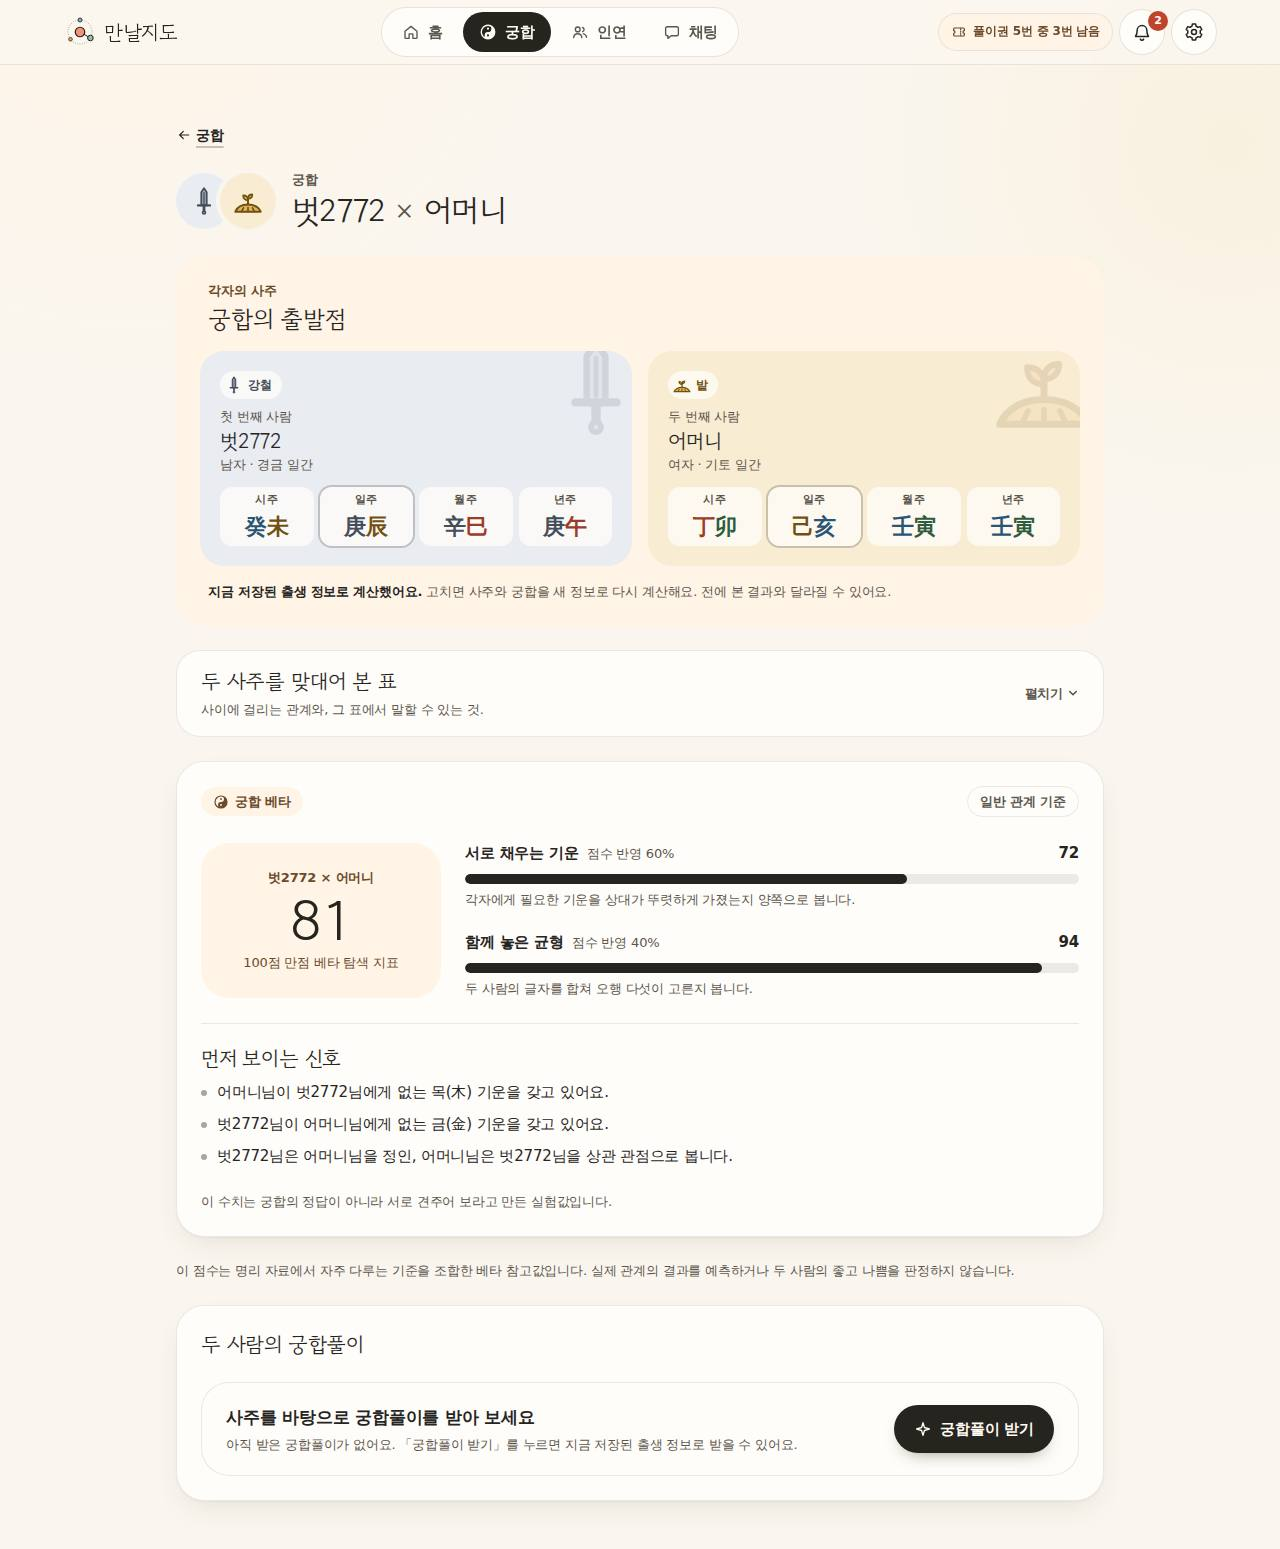
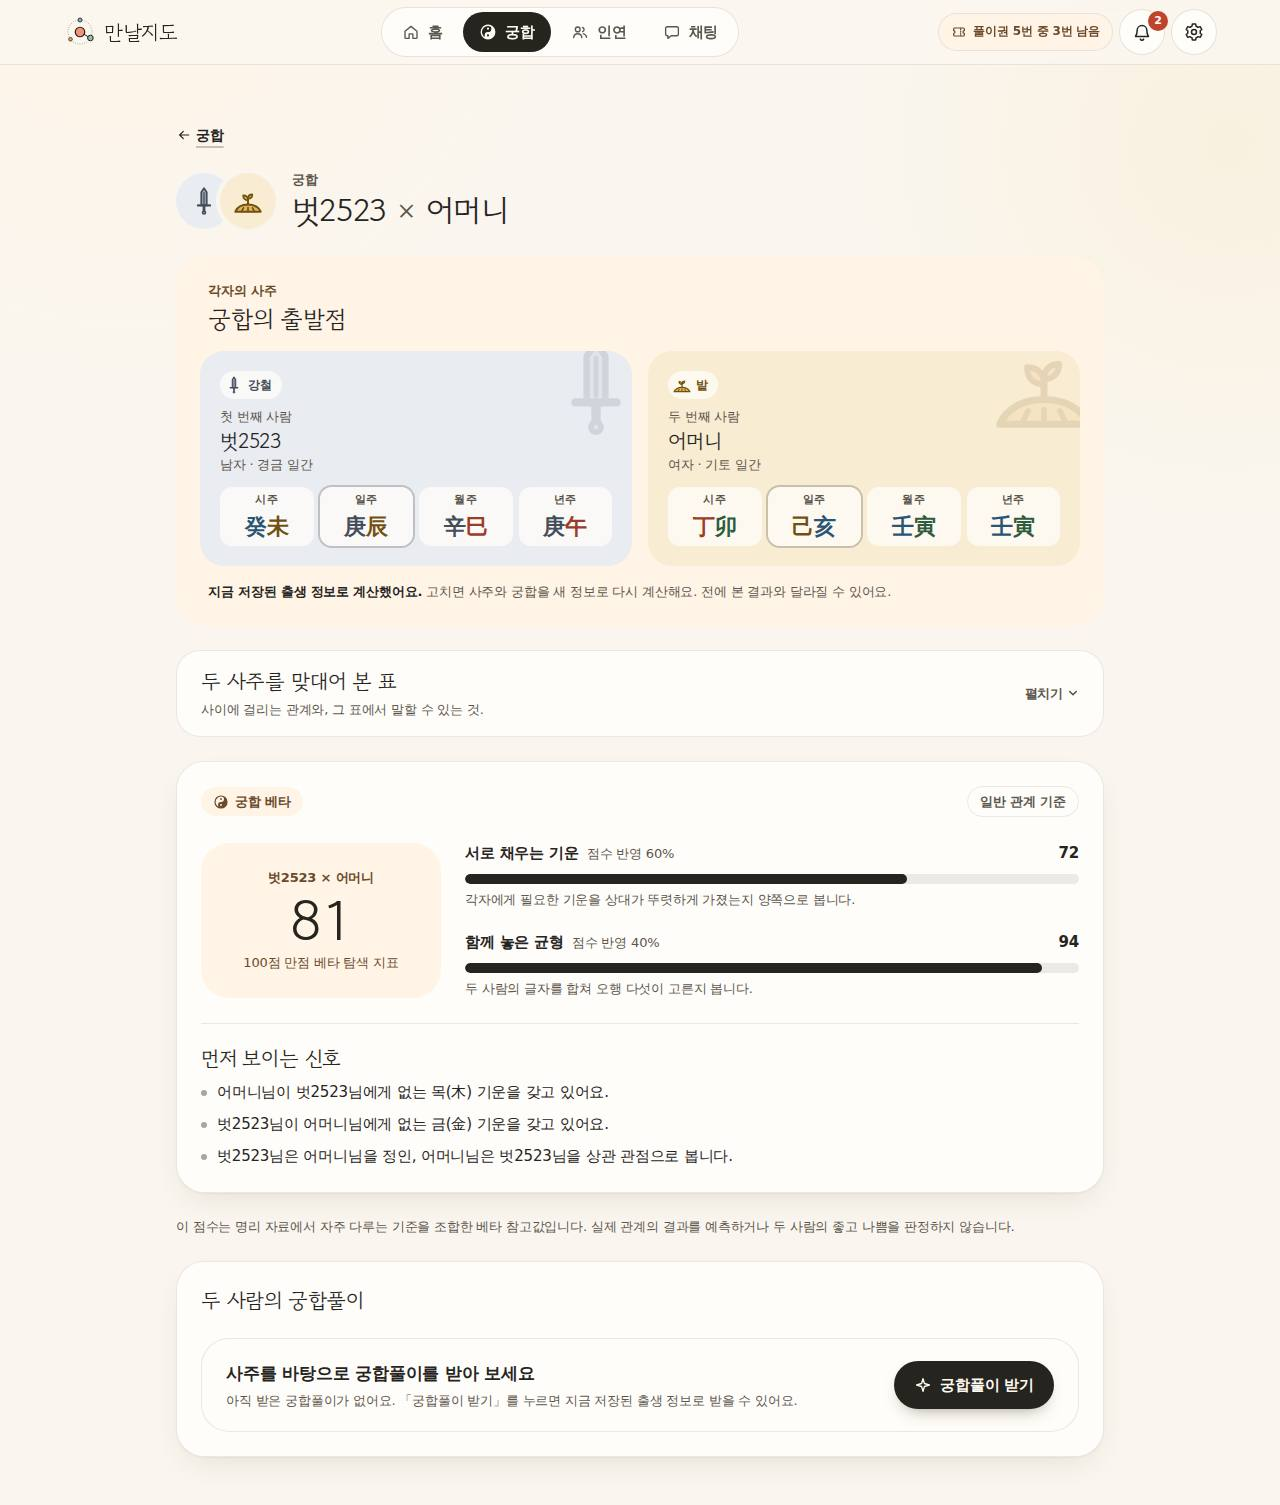
ui(compat): 궁합 점수 카드 안의 각주를 걷어 면책은 카드 밖 한 줄만 남고, 폰 덱 e2e 가 뼈대의 카드 자리를 세지 않는다
- 카드 안 「이 수치는 궁합의 정답이 아니라 …실험값입니다.」를 걷었다(운영자 승인, 대장 29). 그리던 곳이 이 카드뿐이라 `MatchPreview.caveat` 째 걷었다. 카드 밖 `ScoringNote` 는 그대로.
- e2e/match.spec.ts: 뼈대(`main[data-skeleton]`)도 `data-deck-fit` 을 달아, 본문과 바꿔 끼워지기 전 둘이 함께 잡혀 strict 위반이 났다 — 본문의 카드만 잰다.
- 새 주석에서 변경 경위를 걷었다.

diff --git a/src/lib/matching/index.ts b/src/lib/matching/index.ts
@@ -51,7 +51,6 @@ export type MatchPreview = {
   index: number;
   dimensions: MatchDimension[];
   highlights: string[];
-  caveat: string;
 };
 
 /**
@@ -231,17 +230,8 @@ export function buildMatchPreview(
     dimensions,
     highlights: highlights.slice(0, 3),
     /*
-      뒷문장(「억부·종격·격국처럼 검증 중인 판정은 포함하지 않았습니다」)을 뺐다.
-      카드 머리의 딱지가 같은 말을 이미 하고 있다. 각주가 답하는 물음은 다르다 —
-      **이 숫자가 무엇인가**이고, 그건 딱지가 답하지 않는다.
+      **카드 안에 각주를 따로 두지 않는다.** 이 숫자가 무엇인지는 카드 바로 밖의 한 줄(`ScoringNote`)이 말한다 — 카드 안에
+      같은 면책이 하나 더 서면 한 화면이 같은 말을 두 번, 다른 말투로 한다.
     */
-    /*
-      **`match-v0` 은 각주에도 안 적는다.** 용어집이 이미 「내부 버전은 사용자에게
-      보이지 않는다」로 정해 두었는데(docs/context/evidence.md 의 「옛 실험 지표」), 카드 딱지에서
-      빼면서 이 줄은 그대로 두었다. 사용자에게 그 문자열은 답이 아니라 물음이 된다.
-
-      각주가 답하는 것은 **이 숫자가 무엇인가**이고, 그건 판본 이름 없이 말할 수 있다.
-    */
-    caveat: '이 수치는 궁합의 정답이 아니라 서로 견주어 보라고 만든 실험값입니다.',
   };
 }

diff --git a/src/lib/reading/feedback.ts b/src/lib/reading/feedback.ts
@@ -24,10 +24,8 @@ export const FEEDBACK_SCALE = [1, 2, 3, 4, 5] as const;
 export type FeedbackScore = (typeof FEEDBACK_SCALE)[number];
 
 /**
- * 첫 질문이 이해를 돕는 **대상** — kind 가 고른다(2026-10-10 화면 점검 B9, 운영자 승인).
- *
- * 한 문장으로 네 kind 에 물을 때는 어머니 풀이 아래에서도 「나를」 이해하는 데 도움이 됐는지를 물었다. 대상만
- * 갈아 끼우고 열(`usefulness`) · 눈금 · 보낼 수 있는 조건은 그대로다.
+ * 첫 질문이 이해를 돕는 **대상** — kind 가 고른다. 저장한 사람의 풀이 아래에서 「나를」 이해하는 데 도움이 됐는지를
+ * 물으면 답이 무엇을 매겼는지 흐려진다. 대상만 갈아 끼우고 열(`usefulness`) · 눈금 · 보낼 수 있는 조건은 같다.
  *
  * **그래서 같은 열에 쌓이는 답의 뜻이 kind 마다 갈린다** — `self` 는 나를, `person` 은 그 사람을, `private` ·
  * `match` 는 두 사람을 이해하는 데 도움이 됐는지다. 견줄 때는 kind 로 나눠 읽는다(`/ops/survey` 가 kind 로 줄을 가른다).

diff --git a/src/lib/matching/matching.test.ts b/src/lib/matching/matching.test.ts
@@ -78,15 +78,11 @@ describe('궁합 베타 지표', () => {
       expect(highlight).not.toContain('검증 중인 판정');
     }
 
-    /** 각주가 답하는 물음은 「이 숫자가 무엇인가」다 — 제외 사실은 딱지가 든다 */
-    expect(preview.caveat).toContain('궁합의 정답이 아니라');
-    expect(preview.caveat).not.toContain('검증 중인 판정');
-
     /**
      * **내부 판본 이름은 사용자에게 닿는 어디에도 없다**(GLOSSARY.md · ADR 0026).
      * `policyVersion` 은 값으로 실려 화면이 안 쓰는 자리에서만 읽힌다.
      */
-    const shown = [...preview.highlights, preview.caveat, ...preview.dimensions.map((d) => `${d.label} ${d.description}`)].join(' ');
+    const shown = [...preview.highlights, ...preview.dimensions.map((d) => `${d.label} ${d.description}`)].join(' ');
     expect(shown).not.toContain('match-v0');
     expect(shown).not.toContain('discovery-v1');
     expect(shown).not.toContain('v2');

diff --git a/app/compat-view.tsx b/app/compat-view.tsx
@@ -62,9 +62,8 @@ export function CompatView({
   names: Record<CompatSide, string>;
   compat: Compatibility;
   /**
-   * 무엇을 기준으로 본 결과인가 — **두 명식(「궁합의 출발점」) 아래에 선다.** 결과 맨 위에 서 있을 때는 「고치면 다시
-   * 계산해요」가 무엇을 고치라는 말인지 갈 곳이 없었다(2026-10-10 화면 점검 B18). 고치는 것이 출생 정보이고 그 정보가
-   * 낸 여덟 글자가 바로 위에 서므로 그 자리에 붙인다.
+   * 무엇을 기준으로 본 결과인가 — **두 명식(「궁합의 출발점」) 아래에 선다.** 「고치면 다시 계산해요」가 말하는 것은
+   * 출생 정보이고, 그 정보가 낸 여덟 글자가 바로 위에 서므로 그 자리에 붙인다.
    */
   notice: ReactNode;
   /**

diff --git a/e2e/match.spec.ts b/e2e/match.spec.ts
@@ -596,7 +596,11 @@ test.describe('동의로 열리는 흐름', () => {
 
     const measure = async () => {
       await page.goto('/me/matching');
-      const card = page.locator('[data-deck-fit]');
+      /*
+        뼈대(`loading.tsx`, `main[data-skeleton]`)도 카드 자리에 `data-deck-fit` 을 단다 — 본문이 숨은 채 흘러와 뼈대와 바꿔
+        끼워지기 전까지는 둘이 함께 문서에 있다. 잴 것은 본문의 카드다.
+      */
+      const card = page.locator('main:not([data-skeleton]) [data-deck-fit]');
       const row = page.getByRole('link', { name: /^인연 기록 \d/ });
       const dock = page.locator('#mobile-member-navigation');
       await expect(card).toBeVisible();

diff --git a/src/lib/reading/feedback.test.ts b/src/lib/reading/feedback.test.ts
@@ -59,7 +59,7 @@ describe('설문이 묻는 말', () => {
  * 문제인지, 관계 신호의 해석 문제인지, 문장 표현의 문제인지 안 알려 준다.
  */
 /**
- * **첫 질문은 풀이가 다루는 사람을 묻는다**(2026-10-10 화면 점검 B9). 어머니 풀이 아래에서 「나를」 이해하는 데
+ * **첫 질문은 풀이가 다루는 사람을 묻는다.** 어머니 풀이 아래에서 「나를」 이해하는 데
  * 도움이 됐는지를 물으면 답이 무엇을 매겼는지 흐려진다. 둘째 문항과 눈금 양 끝은 kind 와 상관없이 같다.
  */
 describe('첫 질문의 대상', () => {

diff --git a/app/match-index.tsx b/app/match-index.tsx
@@ -114,8 +114,6 @@ export function MatchIndexCard({
           ))}
         </ul>
       </div>
-
-      <p className="text-[13px] leading-5 text-secondary">{preview.caveat}</p>
     </section>
   );
 }

diff --git a/docs/product/copy-ledger.md b/docs/product/copy-ledger.md
@@ -427,7 +427,8 @@ DB 가 내는 닉네임 중복 거절 「이미 쓰고 있는 닉네임입니다
 | 풀이 의견 첫 질문 `feedbackQuestions(kind)`(`src/lib/reading/feedback.ts`) — 내 사주(`self`) | 이 풀이가 나를 이해하는 데 도움이 됐나요? | 그대로 |
 | 같은 자리 — 저장한 사람 풀이(`person`) | 이 풀이가 나를 이해하는 데 도움이 됐나요? | 이 풀이가 이 사람을 이해하는 데 도움이 됐나요? |
 | 같은 자리 — 궁합풀이(`private`) · 인연 궁합(`match`) | 이 풀이가 나를 이해하는 데 도움이 됐나요? | 이 풀이가 두 사람을 이해하는 데 도움이 됐나요? — 열(`usefulness`)과 보낼 수 있는 조건은 그대로라, 같은 열의 답이 kind 마다 다른 대상을 매긴다 |
-| 궁합 결과의 「지금 저장된 출생 정보로 계산했어요. 고치면 사주와 궁합을 새 정보로 다시 계산해요. …」(`INPUT_EDIT_REPLACED_NOTE`) | 결과 맨 위 | 글자는 그대로, 자리만 「궁합의 출발점」(두 명식) 판 아래로 옮겼다(`app/compat-view.tsx`). 면책 두 줄(「이 수치는 궁합의 정답이 아니라…」 · 「…판정하지 않습니다」)을 합치는 일은 보류 |
+| 궁합 결과의 「지금 저장된 출생 정보로 계산했어요. 고치면 사주와 궁합을 새 정보로 다시 계산해요. …」(`INPUT_EDIT_REPLACED_NOTE`) | 결과 맨 위 | 글자는 그대로, 자리만 「궁합의 출발점」(두 명식) 판 아래로 옮겼다(`app/compat-view.tsx`) |
+| 궁합 결과 점수 카드 안의 각주 `buildMatchPreview` 의 `caveat`(`src/lib/matching`) · `app/match-index.tsx` | 이 수치는 궁합의 정답이 아니라 서로 견주어 보라고 만든 실험값입니다. | (없음) — 면책은 카드 밖 한 줄 「이 점수는 명리 자료에서 자주 다루는 기준을 조합한 베타 참고값입니다. 실제 관계의 결과를 예측하거나 두 사람의 좋고 나쁨을 판정하지 않습니다.」(`ScoringNote`, 고지라 합니다체 그대로) 하나만 남는다. 이 각주를 그리던 곳은 이 카드뿐이었다 |
 | 인연 기록 빈 화면 · 빈 채팅의 단추 `app/me/matching/history/page.tsx` · `app/me/chat/empty.tsx` | 오늘의 인연 만나기 | 오늘의 인연 보기 — 오늘의 인연이 0일 때 「만나기」가 지키지 못하는 약속이 됐다 |
 
 ## 검토 대기
